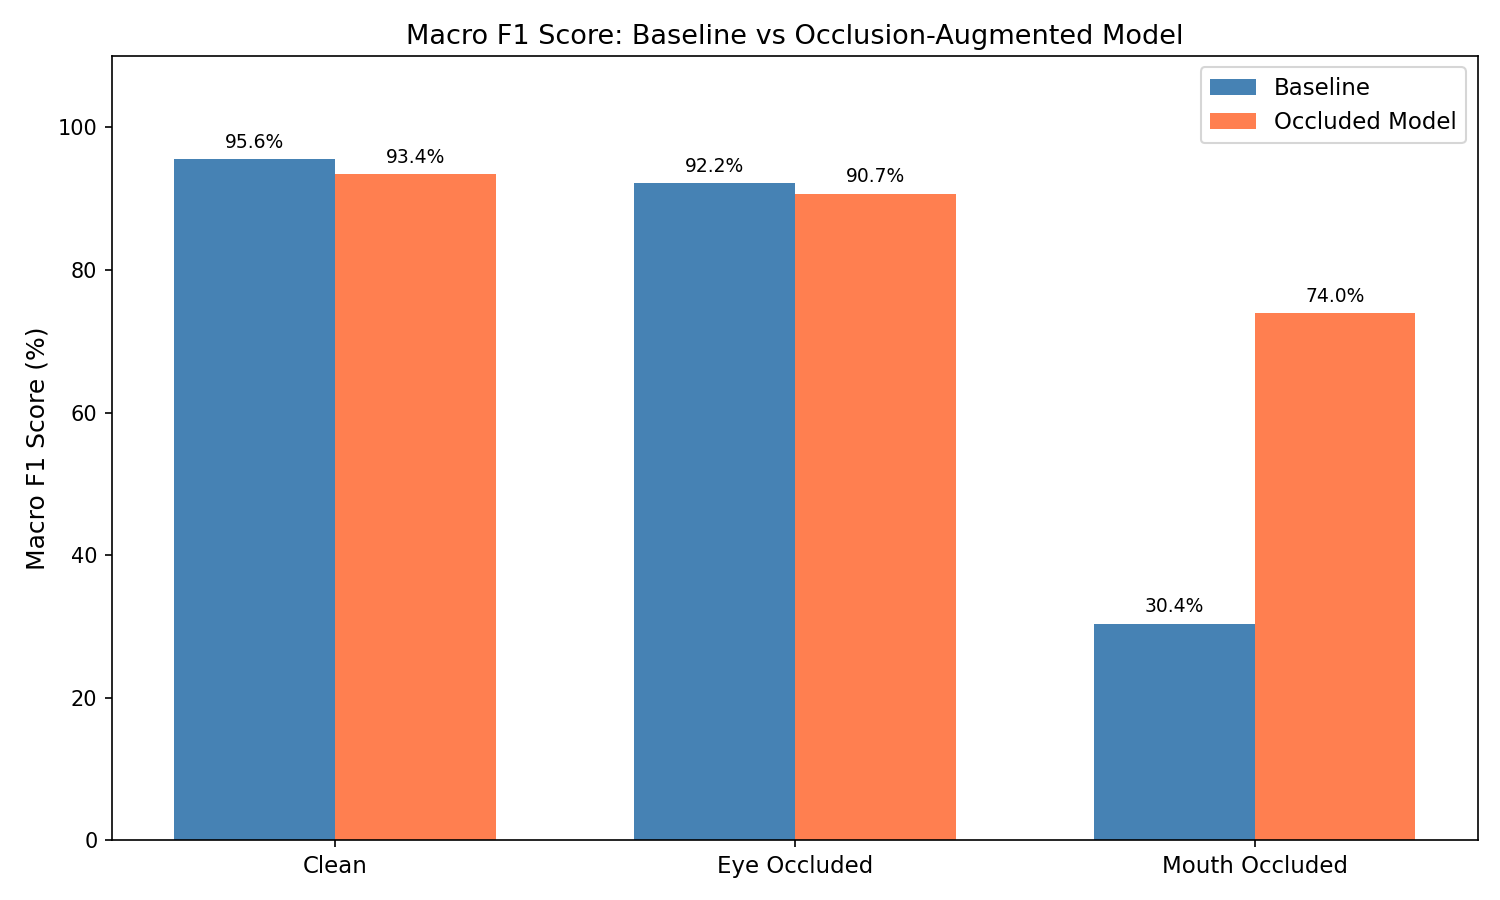
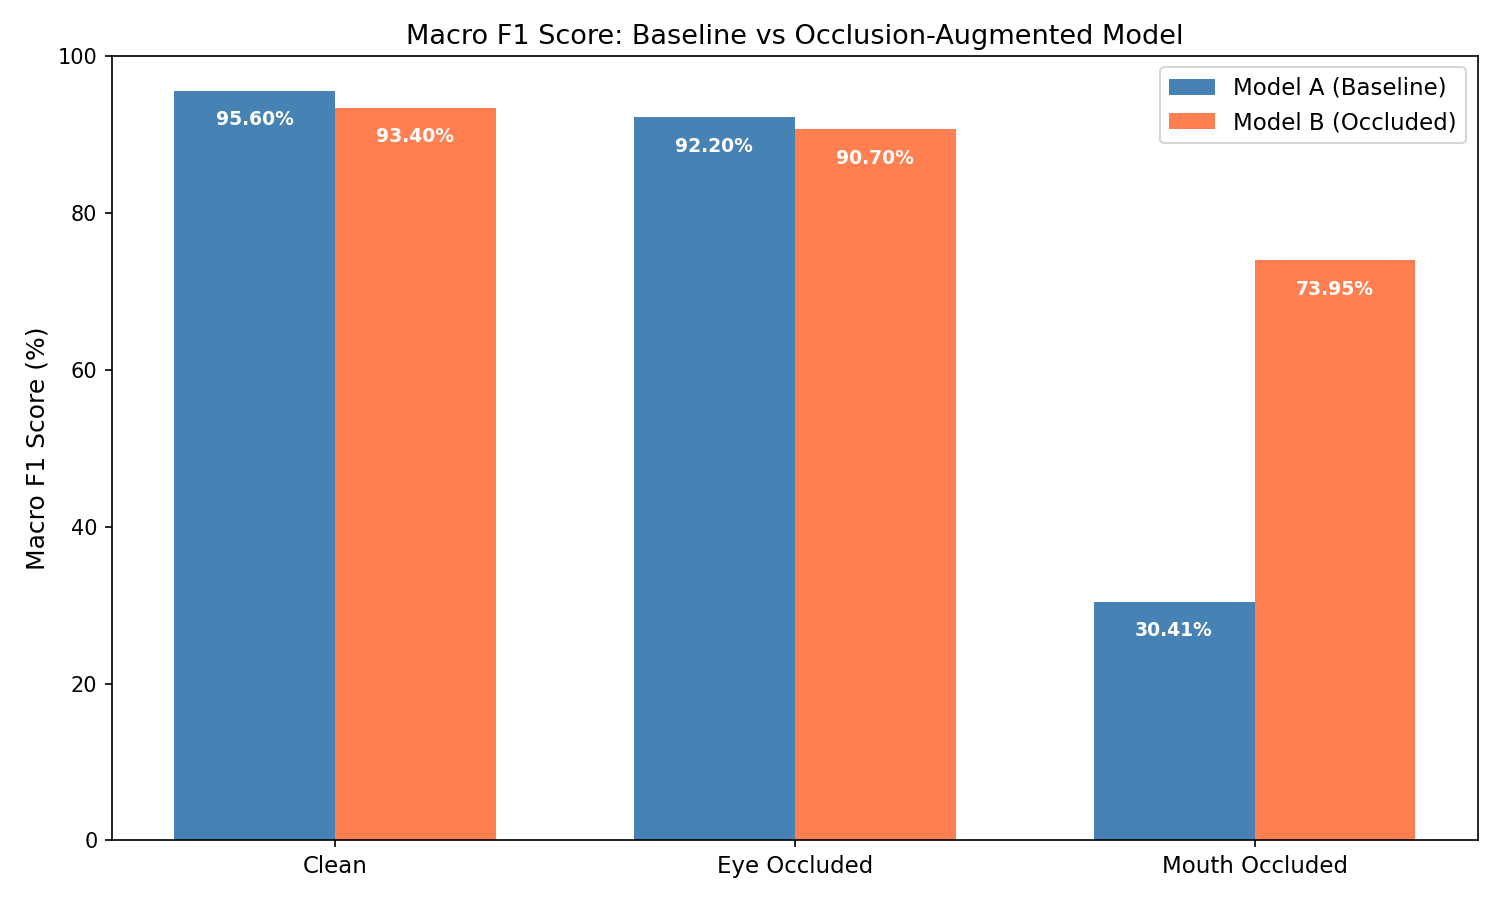
Add methodology pipeline diagram, updated F1 chart and README

diff --git a/extension/visualise.py b/extension/visualise.py
@@ -136,8 +136,8 @@ def chart_f1():
     conditions = ['Clean', 'Eye Occluded', 'Mouth Occluded']
     x = np.arange(len(conditions)); w = 0.35
     fig, ax = plt.subplots(figsize=(10, 6))
-    b1 = ax.bar(x - w/2, data['Baseline'], w, label='Baseline',       color='steelblue')
-    b2 = ax.bar(x + w/2, data['Occluded'], w, label='Occluded Model', color='coral')
+    b1 = ax.bar(x - w/2, data['Baseline'], w, label='Model A (Baseline)',  color='steelblue')
+    b2 = ax.bar(x + w/2, data['Occluded'], w, label='Model B (Occluded)', color='coral')
     ax.set_ylabel('Macro F1 Score (%)', fontsize=12)
     ax.set_title('Macro F1 Score: Baseline vs Occlusion-Augmented Model', fontsize=13)
     ax.set_xticks(x); ax.set_xticklabels(conditions, fontsize=11)

diff --git a/README.md b/README.md
@@ -64,7 +64,7 @@ All values are averaged over 10 folds. Full per-fold results are in `results/eva
 
 ## Methodology
 
-![Methodology Diagram](visualisations/architecture.png)
+![Methodology Diagram](visualisations/methodology_diagram.png)
 
 **Dataset:** KMU-FED (Jeong and Ko, Sensors 2018) — 1,106 near-infrared driver face images across 6 emotion classes (Anger, Disgust, Fear, Happy, Sadness, Surprise). Face regions detected and cropped to 224x224 using MTCNN.
 